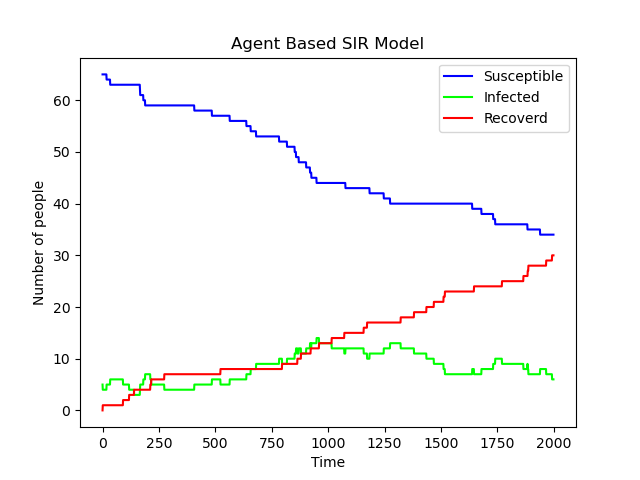
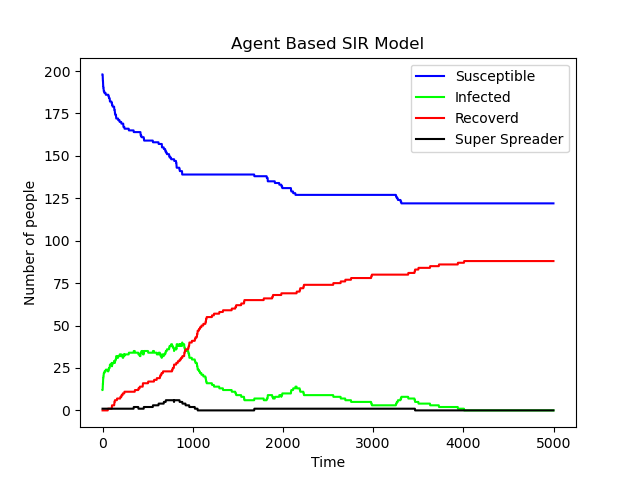
plots superspreaders

diff --git a/Agent/home_animation.py b/Agent/home_animation.py
@@ -10,26 +10,30 @@ WHITE = (255,255,255)
 
 width, height = 600, 600
 
-T = 2000
+T = 5000
 
 gamma = 0.0015
 beta = 0.05
 
-radius = 10.0
-init_S = 20
-init_I = 5
+init_S = 200
+init_I = 10
 
+super_spreaders = 10
+home_people = init_S + init_I - super_spreaders
 
-home_number = 12
-home_radius = 50.0
 people_per_home = 5
+home_number = home_people // people_per_home
 
-offset = 30
+radius = 5.0
+home_radius = 20.0
+
+columns = 5
+offset = 10
 
 homes = []
-for i in range(3):
-	for j in range(home_number//3):
-		homes.append(np.array([offset + home_radius + i*width//3, offset + home_radius+j*height//(home_number//3)]))
+for i in range(columns):
+	for j in range(home_number//columns):
+		homes.append(np.array([offset + home_radius + i*width//columns, offset + home_radius+j*height//(home_number//columns)]))
 
 
 screen = pygame.display.set_mode((width,height))
@@ -54,8 +58,8 @@ for i in range(people_per_home):
 			radius=radius , gamma=gamma, beta=beta, width=600, height=600) )
 
 
-super_spreaders = 4
-for person in agents.setup_simulation(10,0, radius=radius, beta=beta,gamma=gamma,height=height,width=width):
+
+for person in agents.setup_simulation(super_spreaders,0, radius=radius, beta=beta,gamma=gamma,height=height,width=width):
 	population.append(person)
 
 
@@ -64,6 +68,8 @@ agents.initial_infection(init_I, population)
 Sarray = np.zeros(T)
 Iarray = np.zeros(T)
 Rarray = np.zeros(T)
+
+super_spreader_array = np.zeros(T)
 
 for i in range(T):
 
@@ -85,6 +91,8 @@ for i in range(T):
 			Sarray[i] += 1
 		elif person.SIR == 'I':
 			Iarray[i] += 1
+			if type(person) == agents.Person:
+				super_spreader_array[i] += 1
 		elif person.SIR == 'R':
 			Rarray[i] += 1
 
@@ -97,6 +105,7 @@ for i in range(T):
 plt.plot(Sarray, label='Susceptible', color=(0,0,1))
 plt.plot(Iarray, label='Infected', color=(0,1,0))
 plt.plot(Rarray, label='Recoverd', color=(1,0,0))
+plt.plot(super_spreader_array, label="Super Spreader", color="black")
 
 plt.xlabel("Time")
 plt.ylabel("Number of people")
